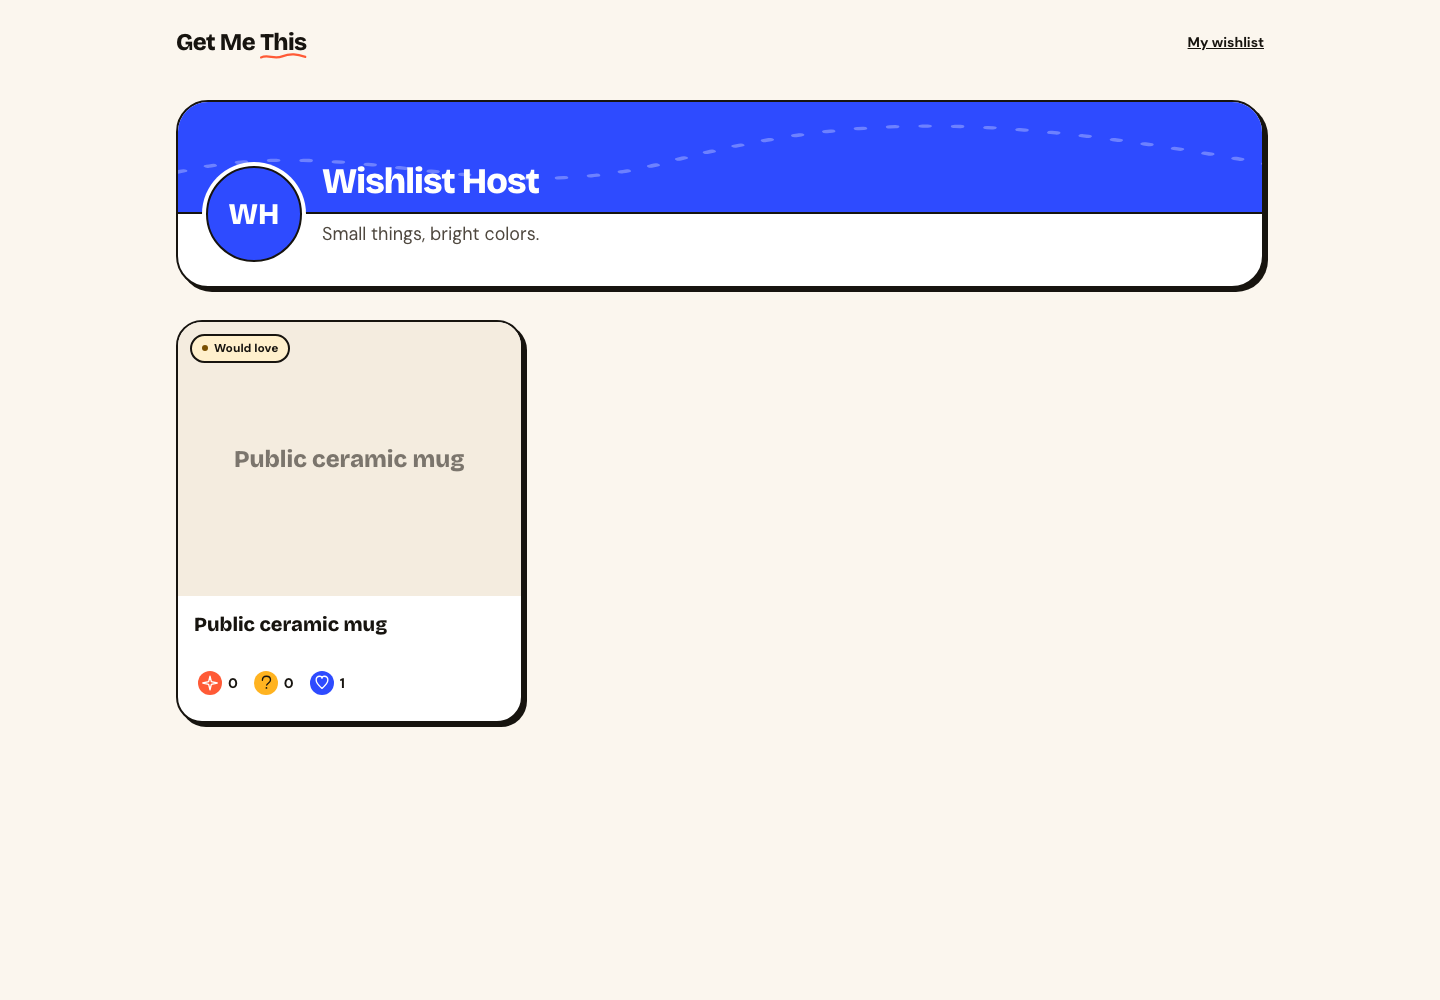
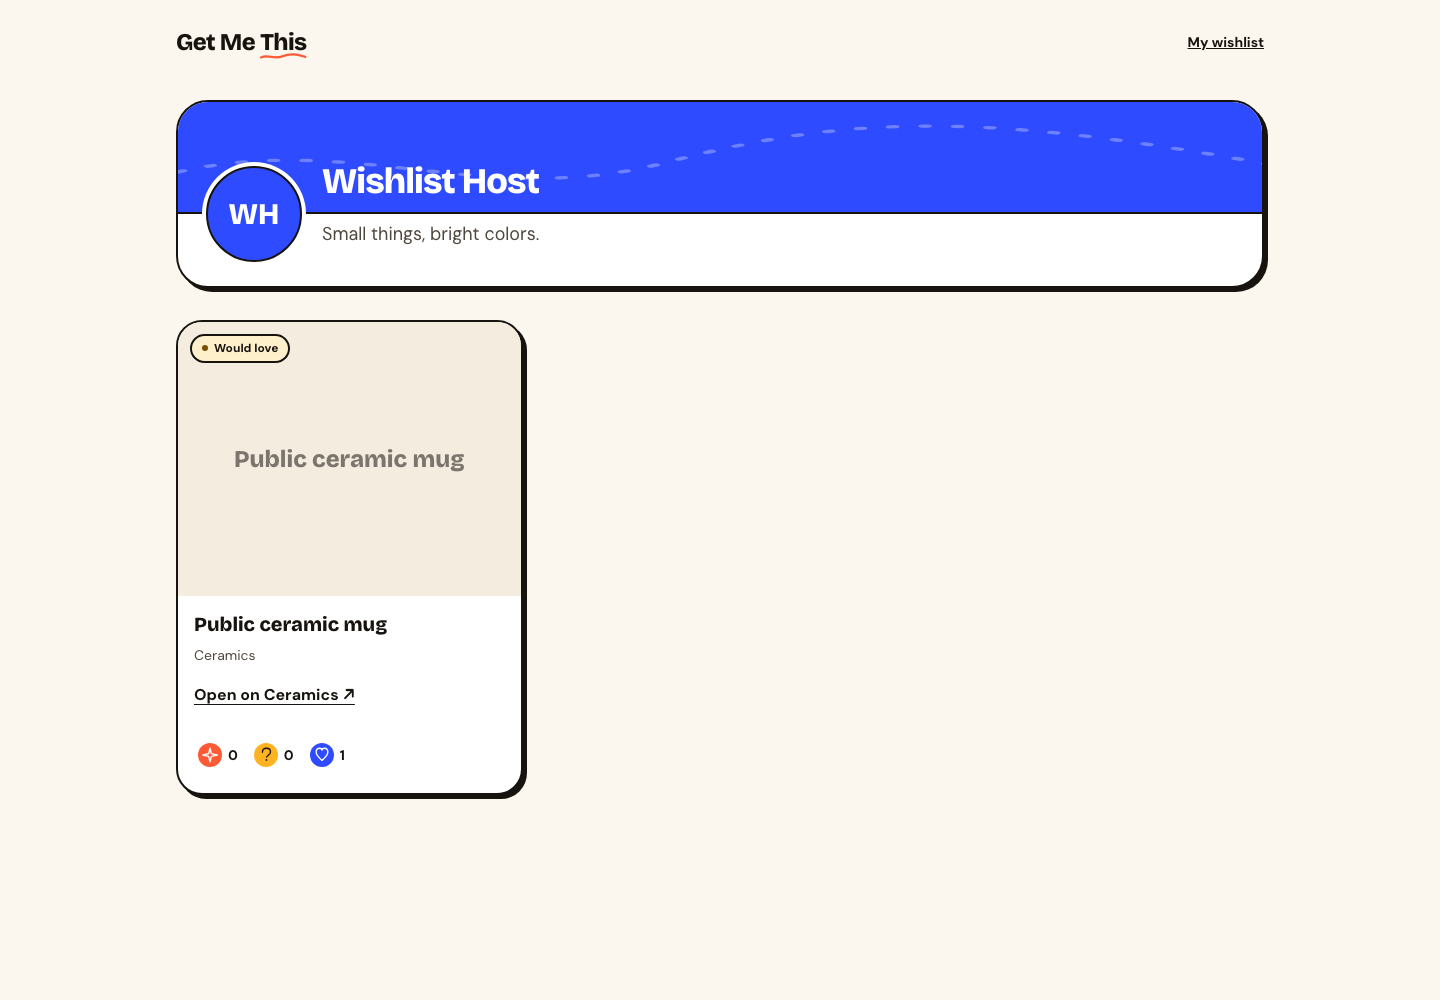
Refresh final stacked public wishlist proof

Changed region(s): [[0.125, 0.651, 0.375, 0.806]]

diff --git a/docs/delivery/evidence/public-reaction-summary/README.md b/docs/delivery/evidence/public-reaction-summary/README.md
@@ -14,21 +14,23 @@ Approved October 7, 2026: only the actual public wishlist changes to three compa
 
 The implementation-only `pnpm verify` passed: 184 files / 1,803 tests, production build, formatting, lint, TypeScript and browser worker checks. One existing lint warning remains in `src/wishlist/redraw-section.test.tsx` for unused `_formData`.
 
-The new component test failed before implementation because the component did not yet exist; all 12 focused component/view tests passed afterward. Browser evidence is captured using local production builds, synthetic accounts, matching public route/item/selection state and desktop 1440×1000 or mobile 390×844 viewports. Capability URLs are excluded from screenshot content; sharing inputs are masked. No visual baselines are updated.
+The new component test failed before implementation because the component did not yet exist; focused component/view tests passed afterward. Store-label assertions also failed before implementation; all 13 focused public tests passed with the latest labels. Browser evidence is captured using local production builds, synthetic accounts, matching public route/item/selection state and desktop 1440×1000 or mobile 390×844 viewports. Capability URLs are excluded from screenshot content; sharing inputs are masked. No visual baselines are updated.
 
 An earlier PR #107 workflow could not start because of the account billing/spending-limit condition: “The job was not started because recent account payments have failed or your spending limit needs to be increased. Please check the 'Billing & plans' section in your settings”. No billing settings were changed or unavailable jobs rerun. PR #108 subsequently started normally; its initial triage, install/verify, populated-state upgrade and no-provider gate jobs succeeded while stack/database suites were running. Railway previews are not configured in current PR checks.
 
 No schema, migrations, RLS, dependencies, production resources, Magic Patterns mock data or editor artifacts changed. Rollback: revert this proposal. Independent review and human merge approval remain required.
 
-After stacking on CTA followup `28bcb4e`, combined `pnpm verify` passed: 185 files / 1,808 tests and production build, with the same single existing lint warning.
+After stacking on final CTA `4843071`, combined `pnpm verify` passed: 185 files / 1,811 tests and production build, with the same single existing lint warning.
 
-The four fresh/returning Mailpit journeys passed on desktop and mobile in 27.2 seconds after stacking onto CTA followup `28bcb4e`. They verify explicit reaction after authentication, persistence on reload, switching, removal, no automatic reaction, owner read-only controls, no group membership side effects, no private gifting data, 44px targets and zero Axe violations in the compact reaction row.
+The four fresh/returning Mailpit journeys passed on desktop and mobile in 26.5 seconds after stacking onto final CTA `4843071`. They verify explicit reaction after authentication, persistence on reload, switching, removal, no automatic reaction, owner read-only controls, no group membership side effects, no private gifting data, 44px targets and zero Axe violations in the compact reaction row.
 
 ## Matched screenshots
 
-Before and after use the same synthetic public wishlist route, item, authoritative selected heart/count state, account and viewport. The before server is CTA PR #107 head `28bcb4e`; this changes no public UI relative to its original base. Tokens never appear in the captured page content. Owner read-only pairs use the same nonzero reaction count.
+Before and after use the same synthetic public wishlist route, item, authoritative selected heart/count state, account and viewport. The before server is CTA PR #107 head `4843071`; this changes no public UI relative to its original base. Tokens never appear in the captured page content. Owner read-only pairs use the same nonzero reaction count.
 
 | State | Mobile before | Mobile after | Desktop before | Desktop after |
 | --- | --- | --- | --- | --- |
 | Visitor selected heart | [Before](public-reaction-before-mobile.png) | [After](public-reaction-after-mobile.png) | [Before](public-reaction-before-desktop.png) | [After](public-reaction-after-desktop.png) |
 | Owner read-only | [Before](public-owner-before-mobile.png) | [After](public-owner-after-mobile.png) | [Before](public-owner-before-desktop.png) | [After](public-owner-after-desktop.png) |
+
+The public store link follows the final approved wording: `Open on <saved retailer> ↗`, otherwise `Open link ↗`, without inferring a website name. Its accessible name also contains the item title and new-tab warning; secure external-link attributes remain. Final browser proof asserts the visible saved-retailer label and URL/target/rel. The first PR #108 CI stack failure was a stale group-copy focus expectation inherited from CTA #107; that test was corrected in the dependency to assert the persistent Copy Cat state, reload behavior and authoritative single copied row. No baseline change was involved.
